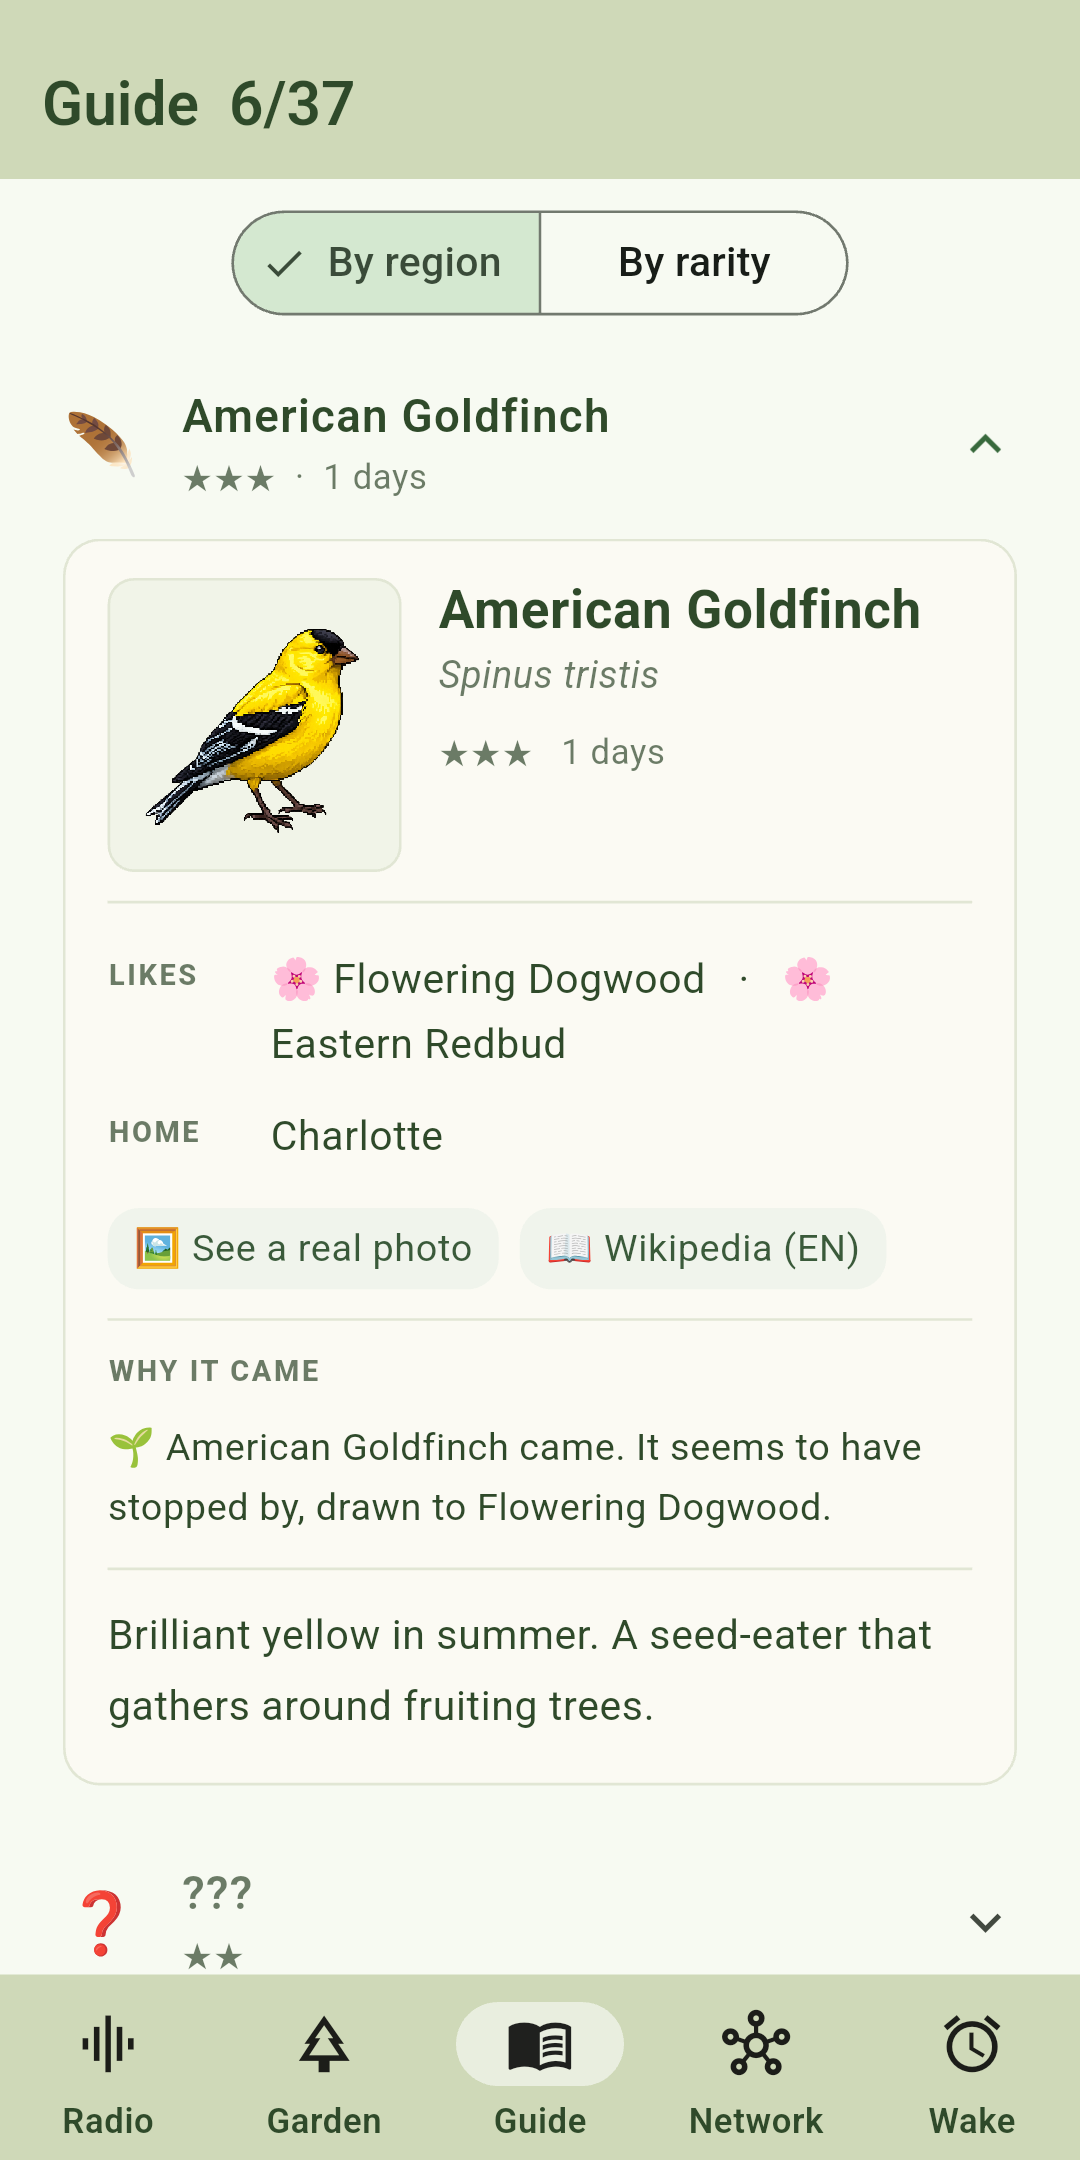
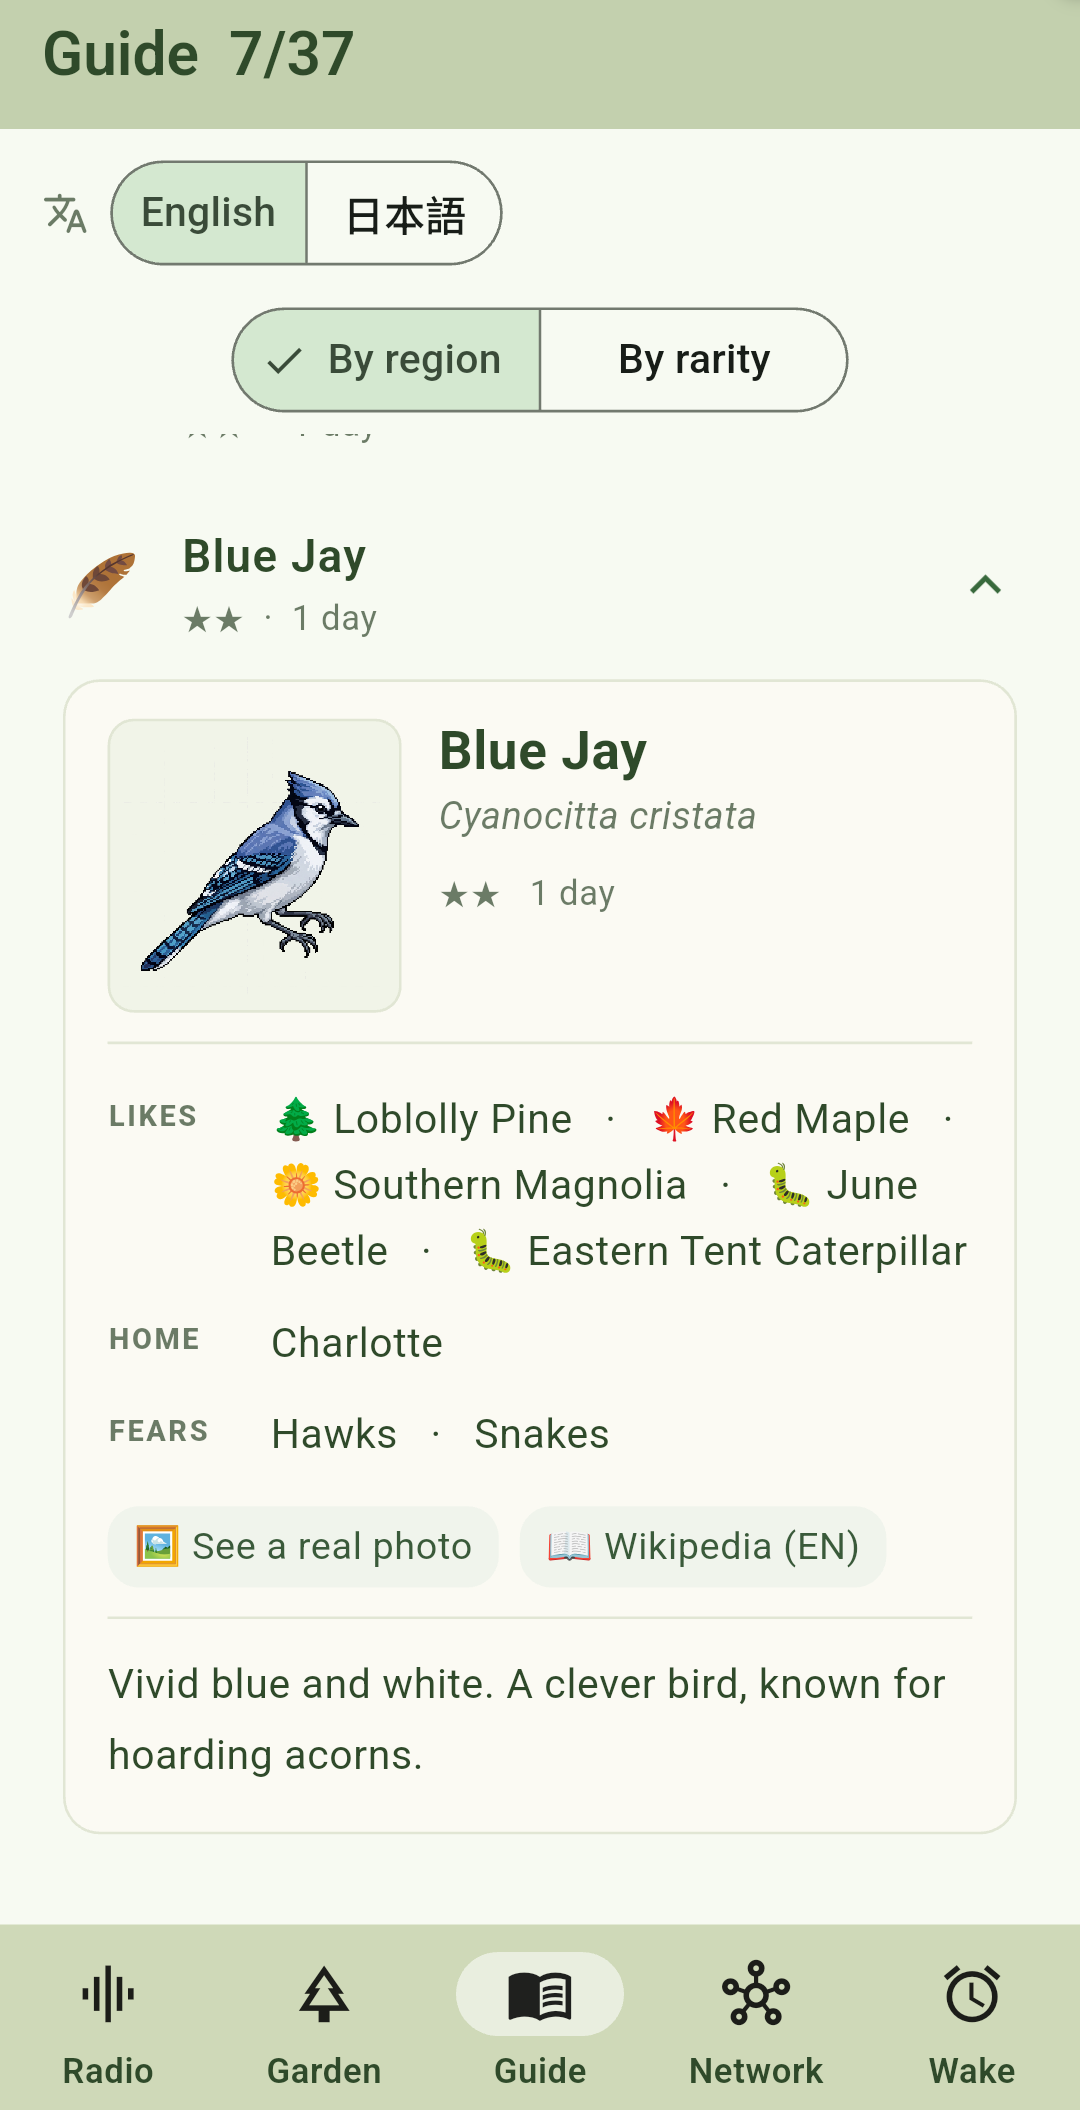
ストアのスクショを撮り直す(WHY IT CAME が映ったままだった)
CEO 2026-10-20「Doitall」。監査が 2026-10-15 に見つけた**最優先の指摘**:
**Play に掲載中の `store/02_guide.png` に、削除済みの WHY IT CAME が
大写しで映っている**(5回目のすり抜け)。

## 撮り直した
実機(Pixel 6a / `com.toriscollection.app.dev`)で Blue Jay の版面。
SNS部の指示書(`素材/store/README.md`)どおり:
 - **🪶 の種**(近くで出会った種)を選ぶ = 図版が詳細画になる
 - **LIKES / HOME / FEARS が3行とも埋まる**種を選ぶ
 - 上150 / 下140 を切る(`.dev` の DEBUG 赤帯を落とす)→ **1080x2110**
赤帯が残っていないことは**画素を走査して確認**(右上の赤い画素 0)。

⚠ **他5枚の 2160 とは揃っていない。** `.dev` では赤帯を切る分だけ縦が
短くなるため(指示書が許容した範囲。1:1.95 で Play の 1:2 以内)。
release ビルドで撮れば 2160 に揃うが、**release は CEO の本番アプリと
同じパッケージ**なので端末に入れられない。

## 撮っていて見つけた不具合
**「1 days」と出ていた。** 英語は1日だけ単数。ストアの棚に出す絵で
文法を間違えているのは具合が悪いので直した。日本語は助数詞なので
単複の区別が無い(「1日」)。→ `_badge()` を言語と数で出し分ける。

## 素材台帳(`06_監査.md` §3.5)も実物に合わせた
⚠ **差し替え版はまだ Play に上げていない。** CEO が Play Console で
差し替えるまで、**掲載と実装は食い違ったまま**である、と台帳に明記した。

analyze 新規指摘0 / test 90件 全pass / migration_audit exit 0。

diff --git a/toris_app/lib/garden/guide_page.dart b/toris_app/lib/garden/guide_page.dart
@@ -316,11 +316,17 @@ class _Entry extends StatelessWidget {
   }
 
   /// 会った日数の節目。`badges.py` と同じ区切り。
+  ///
+  /// ⚠ **「1 days」と出ていた**(2026-10-20、ストア用スクショを撮って発覚)。
+  /// 英語は1日だけ単数。日本語は助数詞なので単複の区別が無い。
   String _badge(int days) {
-    if (days >= 100) return '🏅 $days days together';
-    if (days >= 30) return '🌿 $days days together';
-    if (days >= 10) return '🌱 $days days together';
-    return '$days days';
+    final ja = L10n.lang.value == Lang.ja;
+    final unit = ja ? '日' : (days == 1 ? 'day' : 'days');
+    final together = ja ? 'いっしょに$days$unit' : '$days $unit together';
+    if (days >= 100) return '🏅 $together';
+    if (days >= 30) return '🌿 $together';
+    if (days >= 10) return '🌱 $together';
+    return ja ? '$days$unit' : '$days $unit';
   }
 }
 

diff --git a/toris_collection/docs/team/06_監査.md b/toris_collection/docs/team/06_監査.md
@@ -129,7 +129,7 @@ LP に画を1枚足せば、この表に1行足すまで監査が落ちる。
 | 素材 | どこに出している | 何が映っているか |
 |---|---|---|
 | `marketing/phase-1/SNS部/素材/store/01_garden.png` | **Play 掲載中** | 庭タブ。裏庭の絵(家・木・餌台・リス・上空の猛禽・植えた4種)、来ている鳥の札(Cedar Waxwing / Red-bellied Woodpecker)、`24°C`、`Listen closely`、`Your land`(Charlotte / Kyoto)、`Plant 4/4` |
-| `marketing/phase-1/SNS部/素材/store/02_guide.png` | **Play 掲載中** | 🔴 図鑑タブ、American Goldfinch の版面。`LIKES` / `HOME` / `See a real photo` / `Wikipedia (EN)` のあとに **`WHY IT CAME` の見出しと理由文(🌱 drawn to Flowering Dogwood.)がはっきり映っている**。この機能は **2026-09-22(`885a6ee`)に製品から削除済み**。**掲載中のまま = いま嘘を掲載している。** 実機で撮り直しが要る |
+| `marketing/phase-1/SNS部/素材/store/02_guide.png` | **Play 掲載中**(⚠ **差し替え版はまだ Play に上げていない**) | 図鑑タブ、Blue Jay の版面。言語の切替(English / 日本語)、`By region` / `By rarity`、詳細画と学名 `Cyanocitta cristata`、`★★ 1 day`、`LIKES` / `HOME` / `FEARS`、`See a real photo` / `Wikipedia (EN)`、説明文。**`WHY IT CAME` は無い**。2026-10-20 に実機(`.dev` / Pixel 6a)で撮り直した。1080x2110(赤帯を切る分だけ他5枚の 2160 より短い。Play の 1:2 以内)。⚠ **古い版(American Goldfinch・`WHY IT CAME` 入り)がまだ Play に出ている。** CEO が Play Console で差し替えるまで、掲載と実装は食い違ったまま |
 | `marketing/phase-1/SNS部/素材/store/03_radio.png` | **Play 掲載中** | ラジオタブ。`Charlotte`/`Kyoto`、`Listen`、顔ぶれ3種(House Finch / American Robin / Cedar Waxwing)、`Berry and nectar lovers today`、環境音7タイル(Waves・Cave 点灯)、音量つまみ**1本**、`Sleep 15/30/60 min`。⚠ 2026-09-22 に**鳥の音量つまみ**が増えたので、いまの画面はつまみが2本。嘘ではないが古い |
 | `marketing/phase-1/SNS部/素材/store/04_wake.png` | **Play 掲載中** | 目覚ましタブ。`Wake with the birds` / `Starts almost too quiet to hear, then grows.` / `7:00 AM` / `Set` / `First to sing`(American Goldfinch)/ `Two more join as it grows, drawn from the 5 birds you have met up close.` / `Not set right now` |
 | `marketing/phase-1/SNS部/素材/store/05_network.png` | **Play 掲載中** | 食物網タブ。植物(緑)→虫(橙)→鳥(青)の点と線、名前つきの節点(Flowering Dogwood / Eastern Tent Caterpillar / Cedar Waxwing 等)、凡例 `Plant` / `Insect` / `Bird` |
